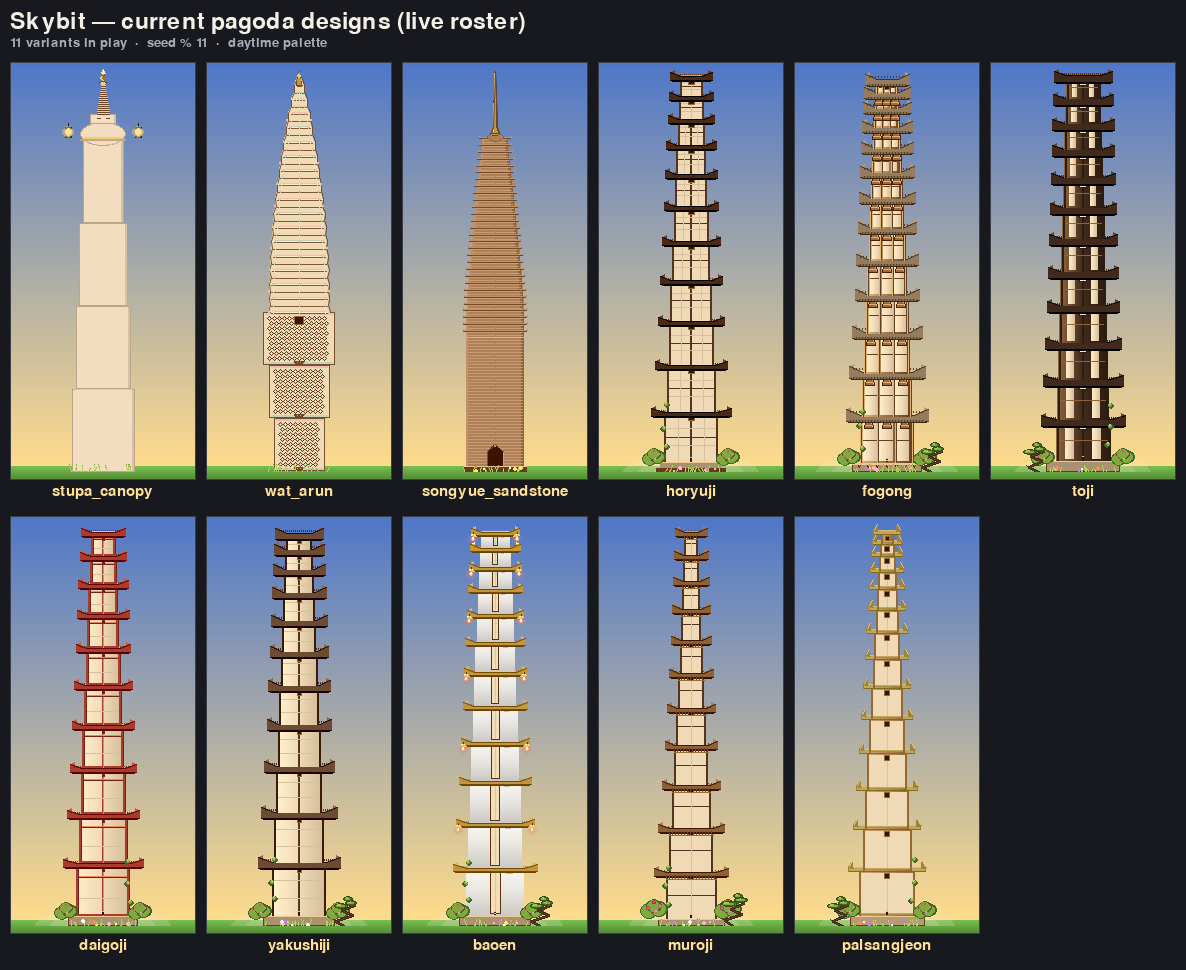
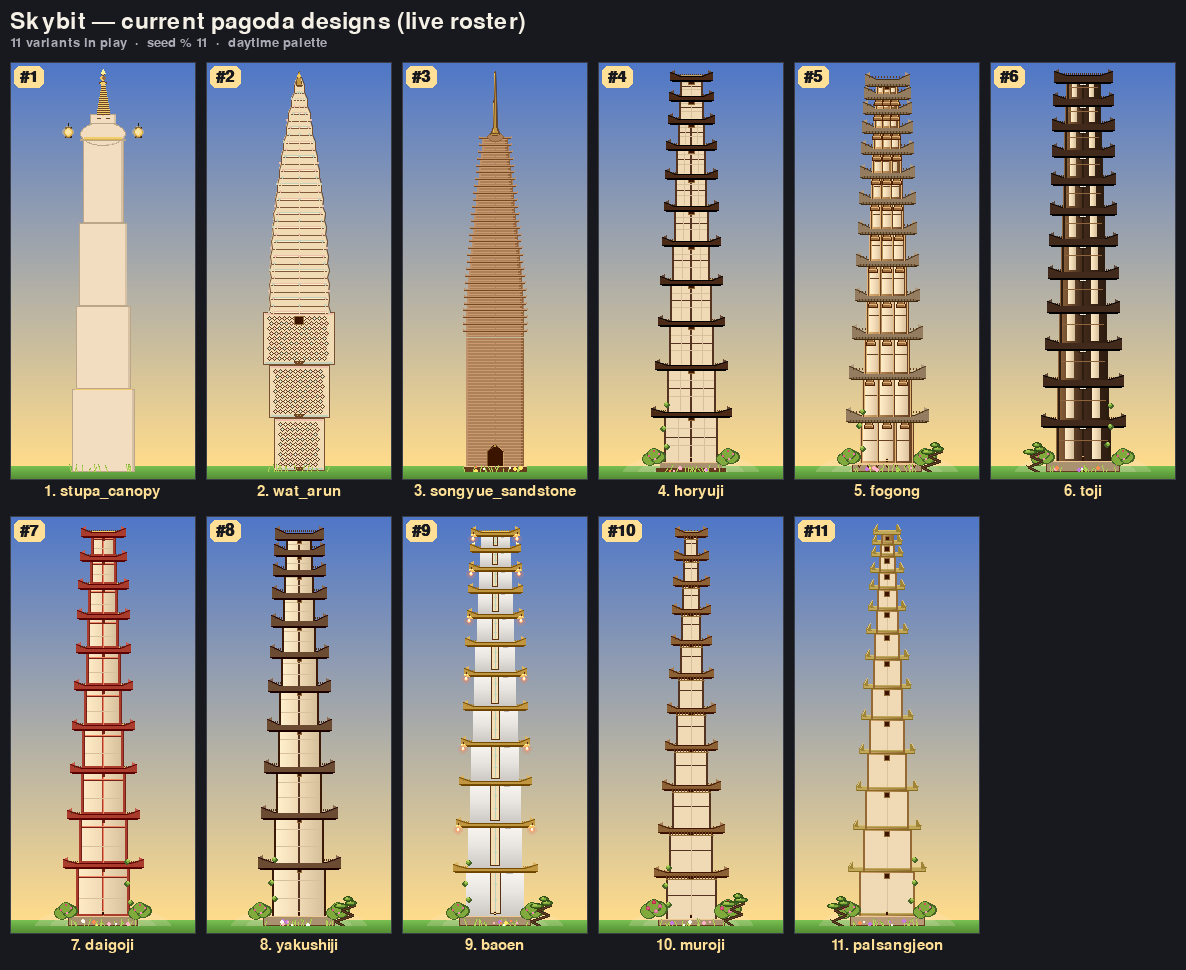
Number the pagoda comparison sheet (serial ID per design)
Adds a #N badge on each cell + a numbered label so we can refer to designs
by a short stable serial (#1..#11) instead of the long internal key names.

Claude-Session: https://claude.ai/code/session_01AKSWmLi8hNK3VNasXuLMag

diff --git a/tools/render_pagoda_comparison.py b/tools/render_pagoda_comparison.py
@@ -102,6 +102,7 @@ def main() -> None:
     title = pygame.font.SysFont(None, 34)
     sub = pygame.font.SysFont(None, 19)
     label = pygame.font.SysFont(None, 22)
+    serial = pygame.font.SysFont(None, 24, bold=True)
 
     sheet.blit(title.render("Skybit — current pagoda designs (live roster)",
                             True, (245, 240, 230)), (pad, 10))
@@ -116,7 +117,18 @@ def main() -> None:
         cell.blit(bake_tower(key), (0, 0))
         sheet.blit(cell, (x, y))
         pygame.draw.rect(sheet, (60, 62, 72), pygame.Rect(x, y, cw, ch), 1)
-        lab = label.render(key, True, (255, 224, 150))
+
+        # Serial number badge, top-left of the cell — a stable ID to talk about
+        # each design ("#3") independent of its (long) internal key name.
+        sn = f"#{i + 1}"
+        num = serial.render(sn, True, (24, 25, 30))
+        bw, bh = num.get_width() + 12, num.get_height() + 6
+        badge = pygame.Surface((bw, bh), pygame.SRCALPHA)
+        pygame.draw.rect(badge, (255, 224, 150), badge.get_rect(), border_radius=6)
+        badge.blit(num, (6, 3))
+        sheet.blit(badge, (x + 4, y + 4))
+
+        lab = label.render(f"{i + 1}. {key}", True, (255, 224, 150))
         sheet.blit(lab, (x + (cw - lab.get_width()) // 2, y + ch + 4))
 
     out = _REPO / "docs" / "pillar_redesign" / "pagoda_comparison.png"
